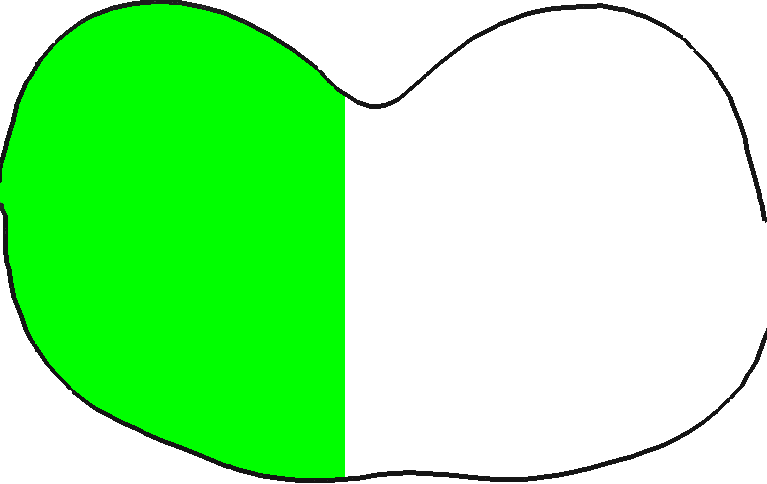
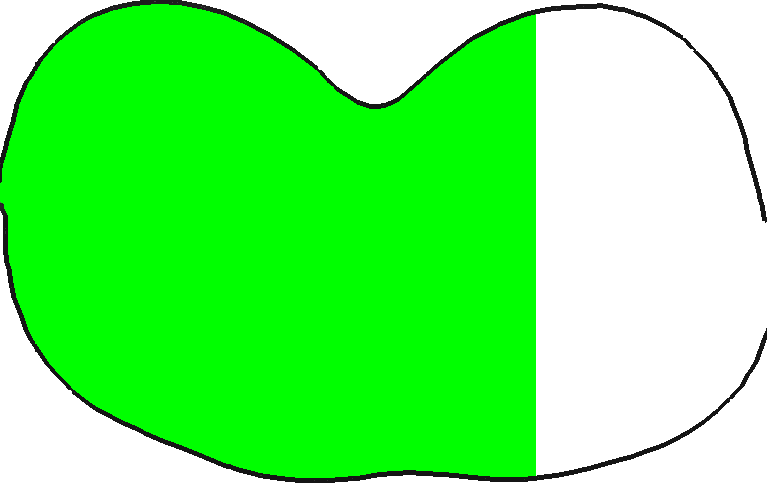
quick set dialog fix match set boundary numbers

Changed region(s): [[0.4498, 0.031, 0.7197, 0.9917]]

diff --git a/areapython/qtArea.py b/areapython/qtArea.py
@@ -106,7 +106,9 @@ class AreaRatioWindow(QtWidgets.QWidget):
 		maxPercent = (float(self.centerBoundaryRatio) * 100) - 1
 		if(maxPercent < 0):
 			maxPercent = 0
-		percent, ok = QtWidgets.QInputDialog.getInt(self, "Set Left Boundary", "Percentage of Image:", 25, 0, maxPercent, 1)
+		currentPercent = float(self.leftBoundaryRatio) * 100
+
+		percent, ok = QtWidgets.QInputDialog.getInt(self, "Set Left Boundary", "Percentage of Image:", currentPercent, 0, maxPercent, 1)
 		self.leftBoundaryRatio = float(percent) / 100
 		if(ok):
 			self.boundaryRatiosChanged = True
@@ -120,8 +122,9 @@ class AreaRatioWindow(QtWidgets.QWidget):
 		if(maxPercent < 0):
 			maxPercent = 0		
 		minPercent = (float(self.leftBoundaryRatio) * 100) + 1
+		currentPercent = float(self.centerBoundaryRatio) * 100
 
-		percent, ok = QtWidgets.QInputDialog.getInt(self, "Set Center line", "Percentage of Image:", 50, minPercent, maxPercent, 1)
+		percent, ok = QtWidgets.QInputDialog.getInt(self, "Set Center line", "Percentage of Image:", currentPercent, minPercent, maxPercent, 1)
 		self.centerBoundaryRatio = float(percent) / 100
 		if(ok):
 			self.boundaryRatiosChanged = True
@@ -132,7 +135,9 @@ class AreaRatioWindow(QtWidgets.QWidget):
 
 	def setRightBoundary(self):
 		minPercent = (float(self.centerBoundaryRatio) * 100) + 1
-		percent, ok = QtWidgets.QInputDialog.getInt(self, "Set Right line", "Percentage of Image:", 75, minPercent, 99, 1)
+		currentPercent = float(self.rightBoundaryRatio) * 100
+
+		percent, ok = QtWidgets.QInputDialog.getInt(self, "Set Right line", "Percentage of Image:", currentPercent, minPercent, 99, 1)
 		self.rightBoundaryRatio = float(percent) / 100
 		if(ok):
 			self.boundaryRatiosChanged = True
